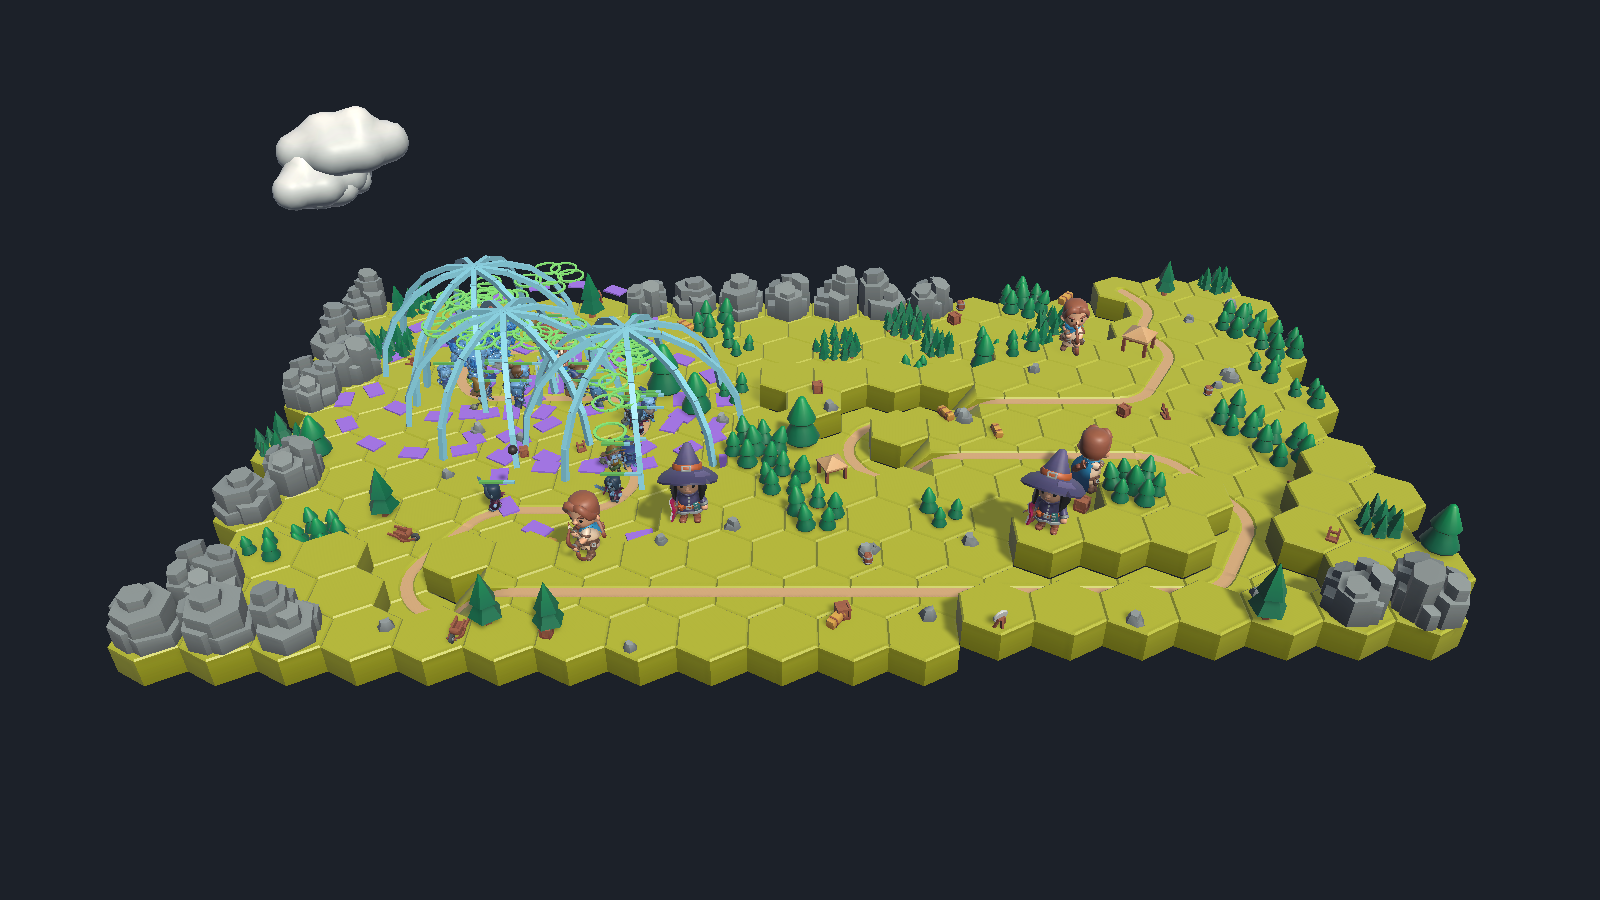
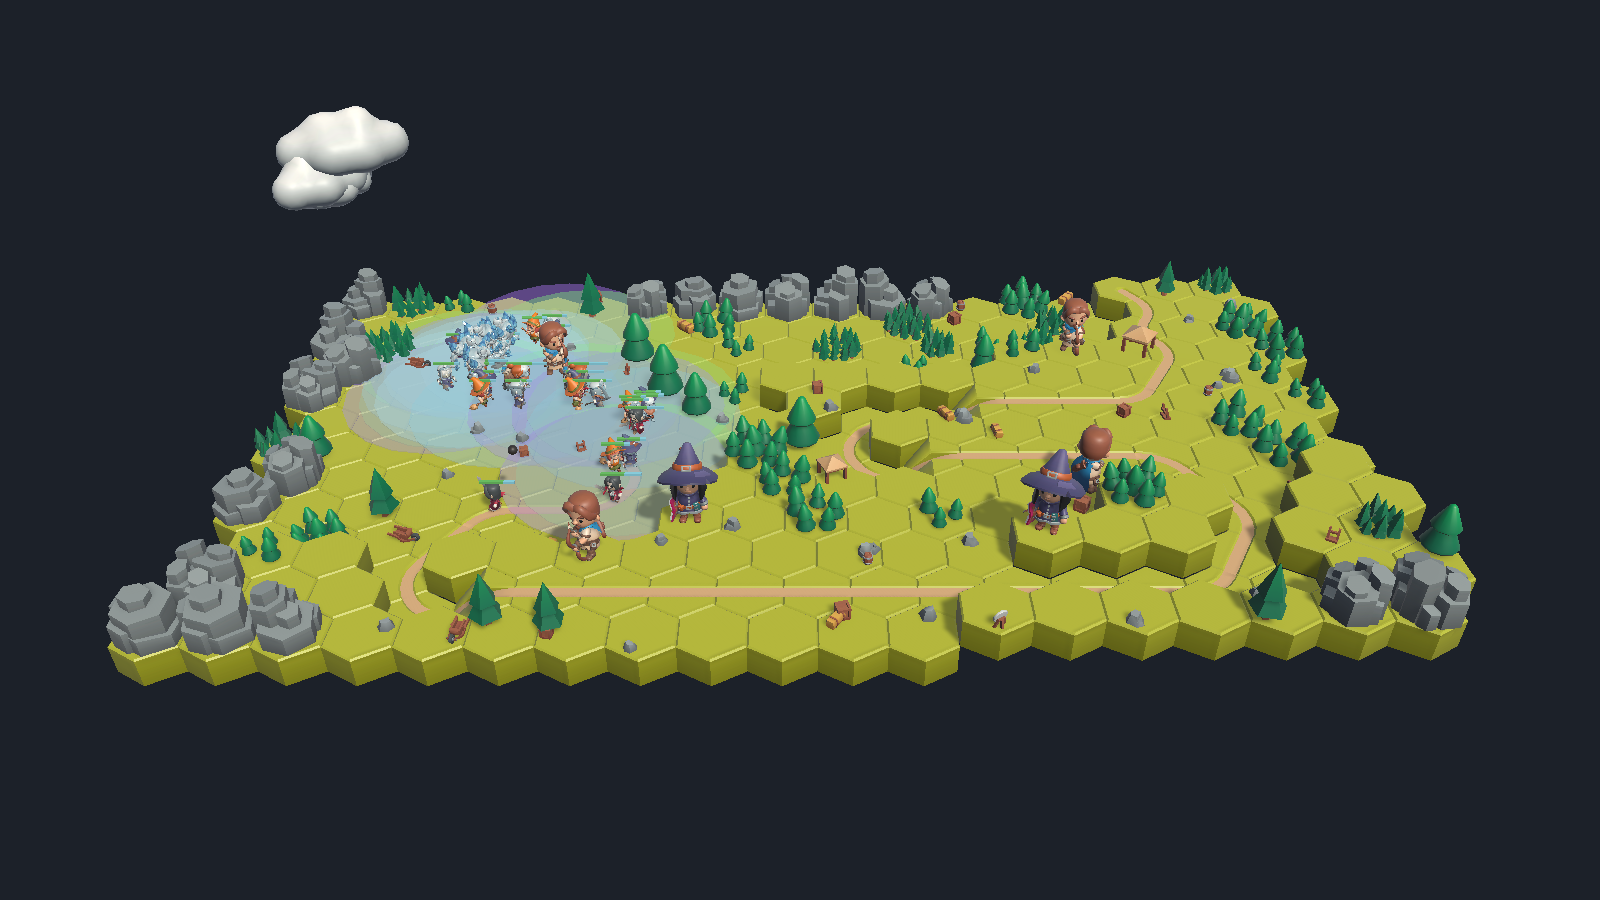
Redraw every committed frame that shows an aura
Twelve of the nineteen fixture frames were pictures of nine shapes that no
longer exist. Each is redrawn at the framing docs/frames/README.md records for
it, using that frame's whole tick list rather than one tick at a time -- the
README measured that capturing a kept tick alone gives different bytes.

The four match-tick-* and three pierce-lines-* frames came back byte-identical,
which is the check rather than a coincidence: the recorded match authors no
lasting bubble and the Overwatch's long shot is a shot, so neither should have
moved.

Also three candidate frames for the one thing still unsigned -- how see-through
an aura's circle is -- at 0.15, 0.28 and 0.45, measured 0.36% to 0.75% of a
1600x900 frame apart, so all three are real differences and not a render that
failed to take.

A finding off the redraw rather than the ask: at 0.28 the Blessing's gold circle
on yellow-green grass is close to invisible at play size, where the blue and
violet ones read. Whether that is the alpha or the colour is docs/frames/
effect-candidates/'s question.

Claude-Session: https://claude.ai/code/session_01Vev6Uk1bemjmBCAmSyJXuU

Changed region(s): [[0.1875, 0.28, 0.4688, 0.6222]]

diff --git a/docs/frames/README.md b/docs/frames/README.md
@@ -67,9 +67,10 @@ them.
 **Finding the tick a capstone went off on is what the log line is for.** A
 signature is drawn on one tick and gone six or eight later, so hunting one by
 opening pictures means opening most of them. Every kept tick's line in
-`capture-match-frames.log` carries the running slow-ring, ground-shock, glow,
-burst, long-shot, knife, bolt, light, root, strip, haste-ring, ward-dome,
-hex-plate and frost-crown counts; ask for a run of
+`capture-match-frames.log` carries the running slow, shock, glow, burst,
+long-shot, knife, bolt, light, strip, haste, ward, hex and frost counts — one
+per aura and per shot, which since the shapes collapsed are counts of circles
+rather than of different things; ask for a run of
 consecutive ticks, read the line where one of those numbers moves, and then
 capture that tick on its own at the size you want. **The knife count is the one
 that says how many bodies a throw found** — it goes up by three where the Fan of
@@ -163,22 +164,30 @@ And one that is **not** a frame of the recorded match:
 And three that are frames of the recorded board with **somebody else's defense
 standing on it** — the twelve rows of the Knight, Barbarian, Paladin and
 Engineer lines, out of
-[`four-lines.txt`](four-lines.txt), all at `-Width 1600`. **Every shape in them
-is a placeholder and none of it is signed.** What issue #263 signed is four
-shapes — a ring for the Shield Wall's slow, a shock across the ground for the
-Slam, a glow on every tower the Blessing reaches and a burst at the radius the
-Mortar landed in — and every colour, size and duration they are drawn at is the
-plainest thing that draws that shape, declared as a placeholder in
-`MatchTuning`.
+[`four-lines.txt`](four-lines.txt), all at `-Width 1600`. **Three of the four are the same shape now.** Issue #263 signed a
+ring for the Shield Wall's slow, a shock across the ground for the Slam, a glow
+on every tower the Blessing reaches and a burst at the radius the Mortar landed
+in; Sam replaced the first three with one flat translucent circle at the reach
+on 7 September 2026, because all three are auras. The Mortar's burst is a blast
+and keeps its shards. Every colour and duration is still the plainest thing that
+draws it, declared as a placeholder in `MatchTuning`, and so is how see-through
+the circles are.
 
 - `four-lines-tick-0813.png` — **the one to look at first**, at `-Distance 22`,
   close enough to read what each shape is made of. Three signatures at once: the
-  blue ring on the left is the Shield Wall's slow, lying on the ground at the
-  one hex it carries; the orange cracks under the Barbarian on the Large rig are
-  the Slam's swing landing on everything touching him; and the two gold rings
-  hanging over the heads on the right are the Blessing's, on itself and on the
-  Templar standing one hex away. The Paladin, six hexes off, is wearing none —
-  that is the aura's reach and not an oversight.
+  pale blue circle on the left is the Shield Wall's slow, lying on the ground at
+  the one hex it carries; the warm circle under the Barbarian on the Large rig
+  is the Slam's swing landing on everything touching him; and the gold circle on
+  the right is the Blessing's, covering itself and the Templar standing one hex
+  away. The Paladin, six hexes off, is outside it — that is the aura's reach and
+  not an oversight, and **it is the only thing on screen that says which towers
+  got the blessing**, because nothing is drawn on the towers themselves.
+
+  **This frame is also the alpha question.** The gold circle on yellow-green
+  grass is the faintest of the three: a warm colour on a warm floor at
+  `AuraDiscAlpha` 0.28 is close to invisible at play size, where the two cold
+  ones read. Whether that is the alpha or the colour is what
+  [`effect-candidates/`](effect-candidates/README.md) is for.
 
 - `four-lines-tick-0572.png` — the same three signatures at the framing that
   fits the whole floor, so all twelve rows are in one picture. The Engineer's
@@ -260,16 +269,21 @@ Druid lines** standing on it, out of [`magic-lines.txt`](magic-lines.txt), all a
 none of those is signed.** What issue #265 signed is four shapes — a bolt leaving the tome or the
 staff tip, the Consecration's light on the ground, the Overgrowth's roots on
 every hex it slows, and the Unravel's armour strip on the hex his bolt landed
-on — and every colour, size and duration they are drawn at is the plainest thing
-that draws that shape, declared as a placeholder in `MatchTuning`.
+on. **Two of those moved on 7 September 2026**: the Consecration's light is the
+one flat translucent circle every aura now draws, and the Overgrowth draws
+nothing at all, because its sixty-hex reach makes a circle at its radius a
+screen washed flat. The bolt and the strip are a shot and a blast, so neither
+was touched. Every colour and duration is still the plainest thing that draws
+the shape, declared as a placeholder in `MatchTuning`.
 
 - `magic-lines-tick-0344.png` — **the one to look at first**, at `-Distance 22`.
   The violet band broken into plates, lying on the ground around the skeleton at
   the left of the light, is the Unravel's armour strip, drawn on the tick his
   bolt arrived. The three pale bars in the air are the bolts fired two ticks
-  earlier, two ticks into a five-tick crossing. The wide pale disc under the towers is
-  the Consecration's light, and the small green sprigs under the bodies standing
-  in it are the Overgrowth's roots.
+  earlier, two ticks into a five-tick crossing. The wide pale circle under the
+  towers is the Consecration's light. **Nothing marks the bodies the Overgrowth
+  is holding** — that aura draws no decoration at all now, so what says the
+  board is held is the creeps not moving.
 
 - `magic-lines-tick-0342.png` — the same corner two ticks earlier, so the three
   bolts of that tick are freshly out of the tome and the staff tip rather than
@@ -287,9 +301,10 @@ that draws that shape, declared as a placeholder in `MatchTuning`.
 
 - `magic-lines-tick-0331.png` — the whole-floor framing, so the reach of both
   auras is in one picture. The Consecration's light covers three hexes round the
-  font; the Overgrowth's roots are under every body on the board, because that
-  aura reaches sixty hexes and the board is nineteen across. **The orange burst
-  in the middle of it is open question 8 in one picture**: it is the Mage's or
+  font; the Overgrowth is **nowhere in this picture**, which is the point of
+  keeping the frame — it reaches sixty hexes and draws nothing, so a board-wide
+  hold has to read through the creeps not moving. **The orange burst in the
+  middle of it is open question 8 in one picture**: it is the Mage's or
   the Sorcerer's splash landing, wearing the Mortar's capstone shape, because a
   blast centred on the body a shot arrived at names the body and never the
   shooter.
@@ -318,11 +333,13 @@ than any of #263 to #265 made, and `MatchTuning`'s own header says so.
 
 - `creep-auras-tick-0272.png` — **the one to look at first**, at `-Distance 20`.
   All four auras pulsed on tick 271 and this is the tick after. The pale blue
-  cages are the Necromancer's ward, three of them overlapping, at the two hexes
-  it grants a pool across; the green rings hanging over the heads inside them
-  are the Skeleton Mage's haste, one per body it reached; and the violet plates
-  scattered across the ground are the Witch's hex ward, three bands of them out
-  to two hexes each. The green-and-blue bars over the bodies are **not** an
+  circles are the Necromancer's ward, three of them overlapping, at the two hexes
+  it grants a pool across; the green circle blending with them is the Skeleton
+  Mage's haste; and the violet ones are the Witch's hex ward, out to two hexes
+  each. **Overlapping circles are what this frame is for**: three translucent
+  surfaces blending is the case the alpha is judged on, and it is the reason
+  nothing is drawn on the bodies — three shapes stacked on one walking creep is
+  exactly what this replaced. The green-and-blue bars over the bodies are **not** an
   effect of this ticket: they are the two-segment bar #254 already draws, and
   the blue half is a pool — some of it the Vampire's and the Grave Robber's own
   and some of it what the Necromancer just granted. **The Minions in the knot
@@ -330,9 +347,10 @@ than any of #263 to #265 made, and `MatchTuning`'s own header says so.
   every one on screen is a body a Necromancer raised.
 
 - `creep-auras-tick-0276.png` — the same knot at `-Distance 14`, down among the
-  bodies, four ticks later. What is worth reading here is that a haste ring
-  hangs above every body inside the aura and that the bar and the ring are two
-  different statements about one creep.
+  bodies, four ticks later. What is worth reading here is that **nothing hangs
+  above the bodies inside the aura**: the circle they are standing in is the
+  whole of what says the haste reached them, and the only thing over a creep is
+  the pool bar, which is not an effect.
 
 - `creep-auras-tick-0271.png` — the whole-floor framing, so the reach of all
   four is in one picture against a board nineteen hexes wide. Two hexes is what
